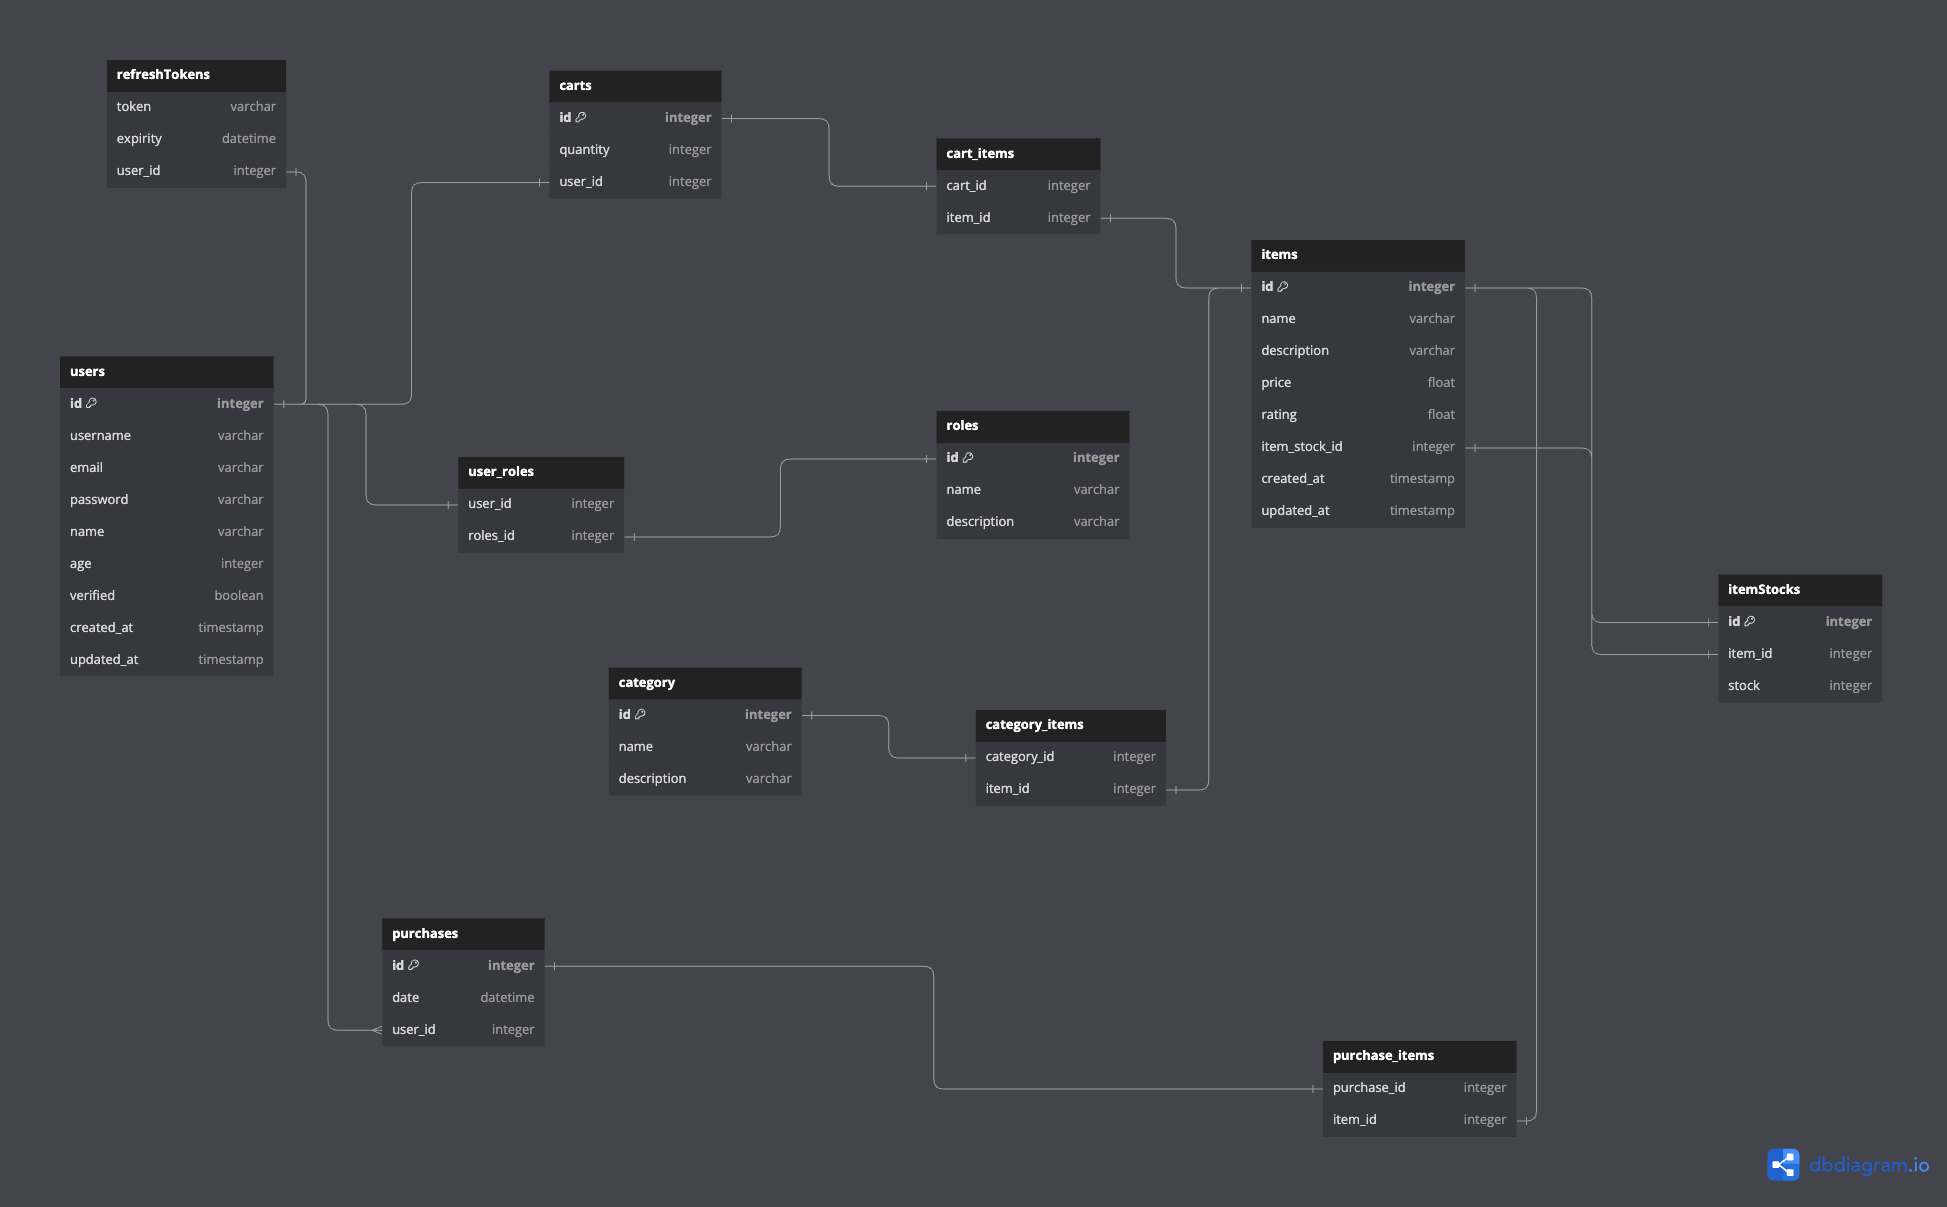
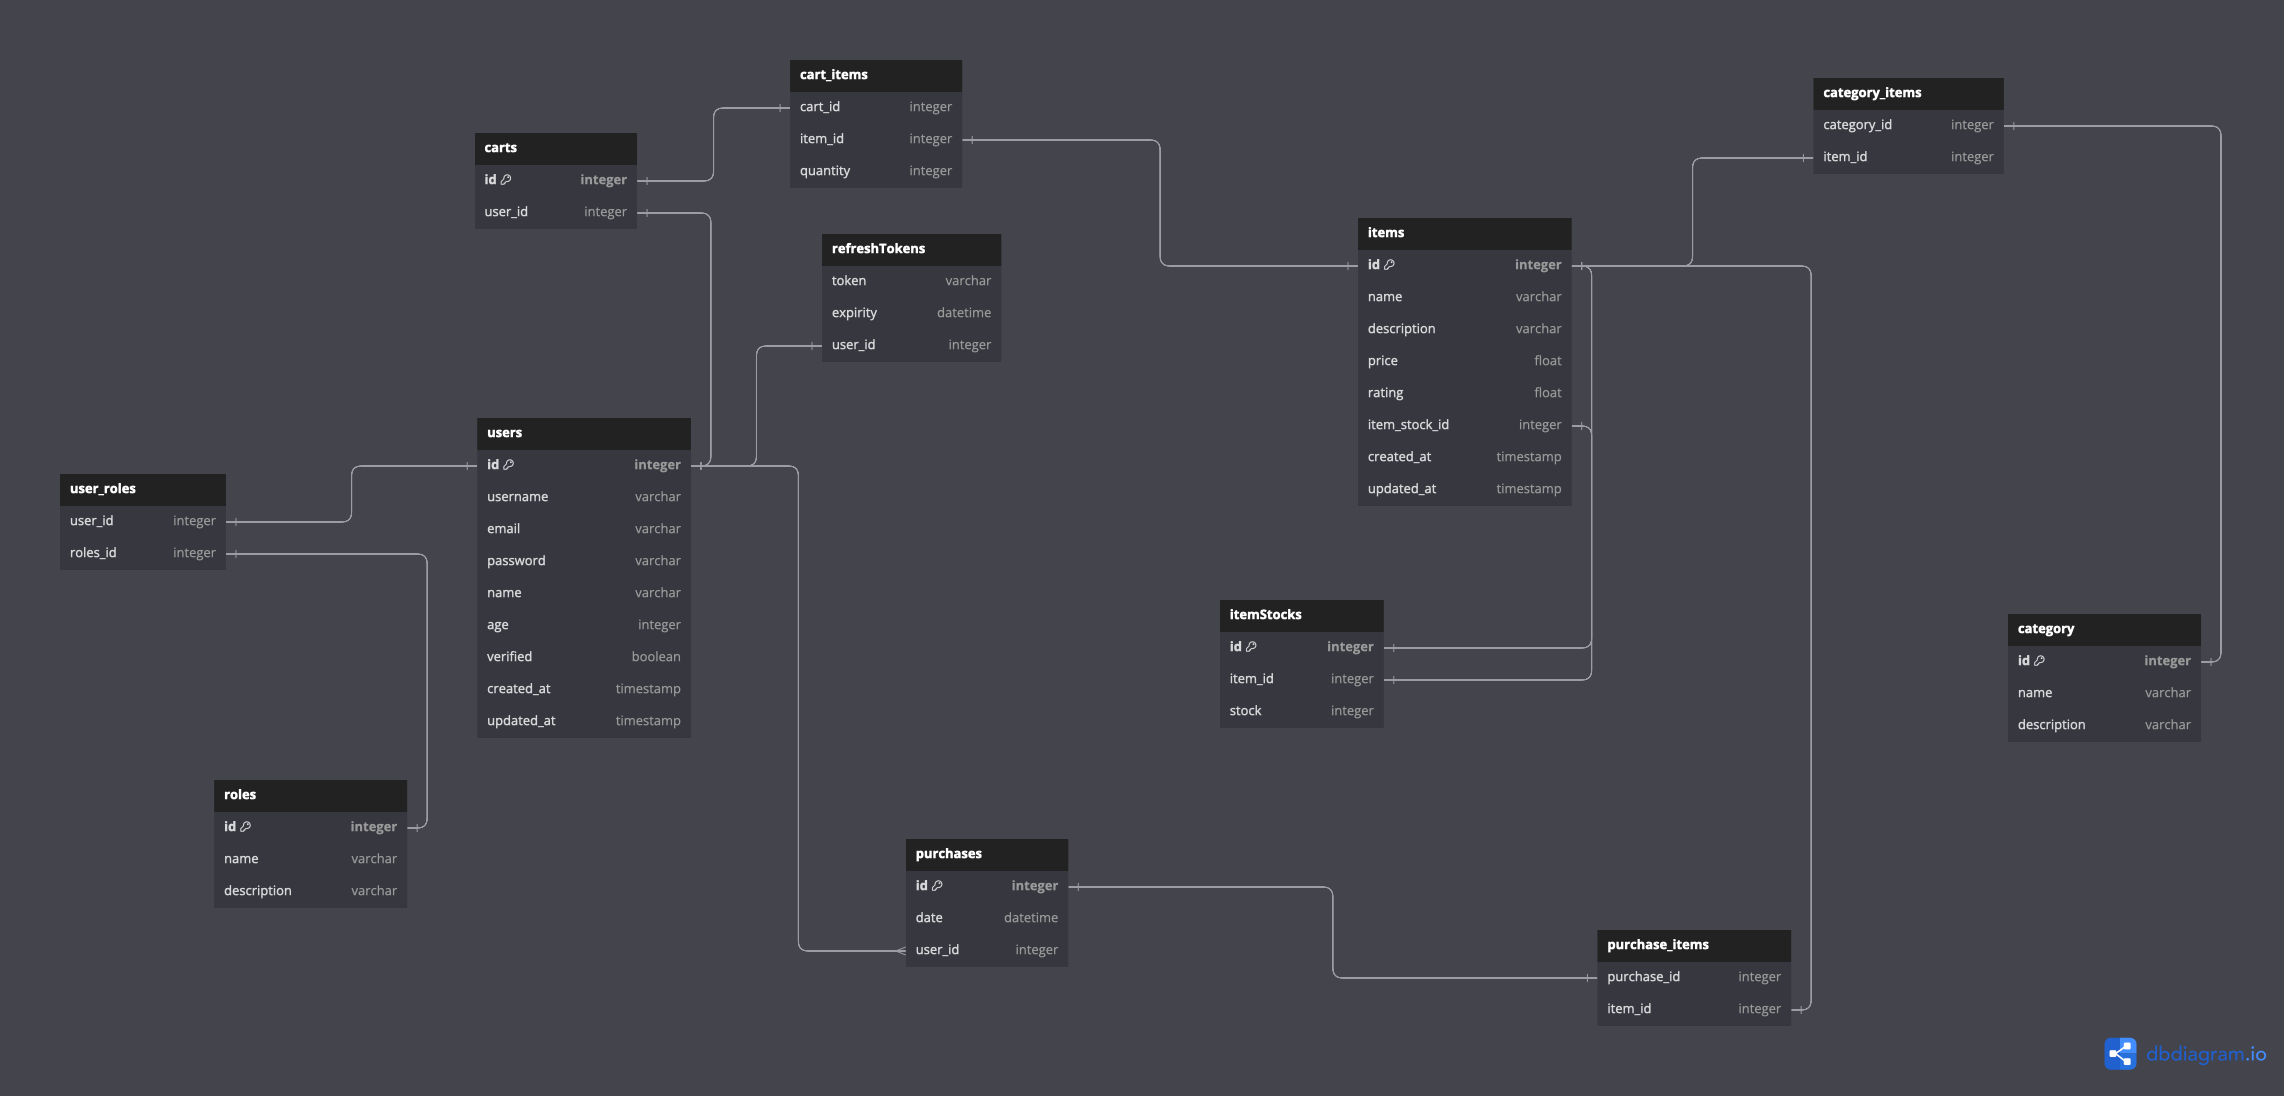
Updated README and new database diagram

diff --git a/app/database/models/Cart.ts b/app/database/models/Cart.ts
@@ -1,7 +1,20 @@
-import { Table, Column, Model, DataType, BelongsTo, ForeignKey, PrimaryKey, BelongsToMany, AutoIncrement } from "sequelize-typescript";
+import {
+  Table,
+  Column,
+  Model,
+  DataType,
+  BelongsTo,
+  ForeignKey,
+  PrimaryKey,
+  BelongsToMany,
+  AutoIncrement,
+} from "sequelize-typescript";
 import User from "./User";
 import CartItem from "./CartItem";
 import Item from "./Item";
+import sequelize from "../db.config";
+
+import logger from "../../utils/logger";
 
 /**
  * Represents a Cart in the database.
@@ -9,59 +22,131 @@ import Item from "./Item";
  * @extends {Model}
  */
 @Table({
-    tableName: "carts",
+  tableName: "carts",
 })
 class Cart extends Model {
-    /**
-     * The unique identifier for the Cart.
-     * @type {number}
-     */
-    @PrimaryKey
-    @AutoIncrement
-    @Column({
-        type: DataType.INTEGER,
-        allowNull: false,
-    })
-    id!: number;
+  /**
+   * The unique identifier for the Cart.
+   * @type {number}
+   */
+  @PrimaryKey
+  @AutoIncrement
+  @Column({
+    type: DataType.INTEGER,
+    allowNull: false,
+  })
+  id!: number;
 
-    /**
-     * The quantity of items in the Cart.
-     * @type {number}
-     */
-    @Column({
-        type: DataType.INTEGER,
-        allowNull: false,
-        defaultValue: 0,
-        validate: {
-            min: 0, // Example: Quantity should not be negative
-        },
-    })
-    quantity!: number;
+  /**
+   * The ID of the User who owns the Cart.
+   * @type {number}
+   */
+  @ForeignKey(() => User)
+  @Column({
+    type: DataType.INTEGER,
+    allowNull: false,
+  })
+  userId!: number;
 
-    /**
-     * The ID of the User who owns the Cart.
-     * @type {number}
-     */
-    @ForeignKey(() => User)
-    @Column({
-        type: DataType.INTEGER,
-        allowNull: false
-    })
-    userId!: number;
+  /**
+   * The User who owns the Cart.
+   * @type {User}
+   */
+  @BelongsTo(() => User)
+  user!: User;
 
-    /**
-     * The User who owns the Cart.
-     * @type {User}
-     */
-    @BelongsTo(() => User)
-    user!: User;
+  /**
+   * The items in the Cart.
+   * @type {Item[]}
+   */
+  @BelongsToMany(() => Item, () => CartItem)
+  items!: Item[];
 
-    /**
-     * The items in the Cart.
-     * @type {Item[]}
-     */
-    @BelongsToMany(() => Item, () => CartItem)
-    items!: Item[];
+  // Add Items to Cart
+
+  /**
+   * Adds an item to the cart.
+   * @param {number} itemId - The ID of the item to add.
+   * @param {number} [quantity=1] - The quantity of the item to add.
+   * @returns {Promise<void>}
+   */
+  async addItemToCart(itemId: number, quantity: number = 1): Promise<void> {
+    // Begin a transaction
+    const transaction = await sequelize.transaction();
+    try {
+      // Find or create CartItem
+
+      // Find or create CartItem
+      const [cartItem, created] = await CartItem.findOrCreate({
+        where: { cartId: this.id, itemId },
+        defaults: { quantity },
+        transaction,
+      });
+
+      if (!created) {
+        // Update CartItem quantity if it already exists
+        cartItem.quantity += quantity;
+        await cartItem.save({ transaction });
+      }
+
+      // Commmit transaction
+      await transaction.commit();
+    } catch (error: any) {
+      // Rollback transaction
+      await transaction.rollback();
+      logger.error(`Error adding item to cart: ${error.message}`);
+    }
+  }
+
+  /**
+   * Removes an item from the cart.
+   * @param {number} itemId - The ID of the item to add.
+   * @param {number} [quantity=1] - The quantity of the item to remove.
+   * @returns {Promise<void>}
+   */
+  /**
+   * Removes an item from the cart.
+   * @param {number} itemId - The ID of the item to remove.
+   * @param {number} [quantity=1] - The quantity of the item to remove.
+   * @returns {Promise<void>}
+   */
+  async removeItemFromCart(
+    itemId: number,
+    quantity: number = 1
+  ): Promise<void> {
+    // Begin a transaction
+    const transaction = await sequelize.transaction();
+    try {
+      // Find CartItem
+      const cartItem = await CartItem.findOne({
+        where: { cartId: this.id, itemId },
+        transaction,
+      });
+
+      if (!cartItem) {
+        throw new Error("CartItem not found");
+      }
+
+      // Calculate new quantity
+      const newQuantity = cartItem.quantity - quantity;
+
+      if (newQuantity <= 0) {
+        // Delete CartItem if quantity is 0 or less
+        await cartItem.destroy({ transaction });
+      } else {
+        // Update CartItem quantity
+        cartItem.quantity = newQuantity;
+        await cartItem.save({ transaction });
+      }
+
+      // Commit transaction
+      await transaction.commit();
+    } catch (error: any) {
+      // Rollback transaction
+      await transaction.rollback();
+      logger.error(`Error removing item from cart: ${error.message}`);
+    }
+  }
 }
 
 export default Cart;

diff --git a/app/database/models/CartItem.ts b/app/database/models/CartItem.ts
@@ -1,4 +1,11 @@
-import { Table, Column, Model, DataType, BelongsTo, ForeignKey } from "sequelize-typescript";
+import {
+  Table,
+  Column,
+  Model,
+  DataType,
+  BelongsTo,
+  ForeignKey,
+} from "sequelize-typescript";
 import Cart from "./Cart";
 import Item from "./Item";
 
@@ -8,39 +15,53 @@ import Item from "./Item";
  * @extends {Model}
  */
 @Table({
-    tableName: "cart_items",
-    timestamps: true
+  tableName: "cart_items",
+  timestamps: true,
 })
 class CartItem extends Model {
-    /**
-     * The ID of the Item associated with this CartItem.
-     * @type {number}
-     */
-    @ForeignKey(() => Item)
-    @Column(DataType.INTEGER)
-    itemId!: number;
+  /**
+   * The quantity of items in the Cart.
+   * @type {number}
+   */
+  @Column({
+    type: DataType.INTEGER,
+    allowNull: false,
+    defaultValue: 0,
+    validate: {
+      min: 0, // Example: Quantity should not be negative
+    },
+  })
+  quantity!: number;
 
-    /**
-     * The Item associated with this CartItem.
-     * @type {Item}
-     */
-    @BelongsTo(() => Item)
-    item!: Item;
+  /**
+   * The ID of the Item associated with this CartItem.
+   * @type {number}
+   */
+  @ForeignKey(() => Item)
+  @Column(DataType.INTEGER)
+  itemId!: number;
 
-    /**
-     * The ID of the Cart associated with this CartItem.
-     * @type {number}
-     */
-    @ForeignKey(() => Cart)
-    @Column(DataType.INTEGER)
-    cartId!: number;
+  /**
+   * The Item associated with this CartItem.
+   * @type {Item}
+   */
+  @BelongsTo(() => Item)
+  item!: Item;
 
-    /**
-     * The Cart associated with this CartItem.
-     * @type {Cart}
-     */
-    @BelongsTo(() => Cart)
-    cart!: Cart;
+  /**
+   * The ID of the Cart associated with this CartItem.
+   * @type {number}
+   */
+  @ForeignKey(() => Cart)
+  @Column(DataType.INTEGER)
+  cartId!: number;
+
+  /**
+   * The Cart associated with this CartItem.
+   * @type {Cart}
+   */
+  @BelongsTo(() => Cart)
+  cart!: Cart;
 }
 
 export default CartItem;

diff --git a/README.md b/README.md
@@ -56,9 +56,6 @@ Using [dbdiagram](https://dbdiagram.io/)
 ![alt text](ECommerce_Diagram.png)
 
 ```dbml
-// Use DBML to define your database structure
-// Docs: https://dbml.dbdiagram.io/docs
-
 Table users {
   id integer [primary key]
   username varchar
@@ -90,13 +87,13 @@ Table user_roles {
 
 Table carts {
   id integer [pk]
-  quantity integer
   user_id integer unique [ref: - users.id]
 }
 
 Table cart_items {
   cart_id integer  [ref: - carts.id]
   item_id integer [ref: - items.id]
+  quantity integer
 }
 
 
